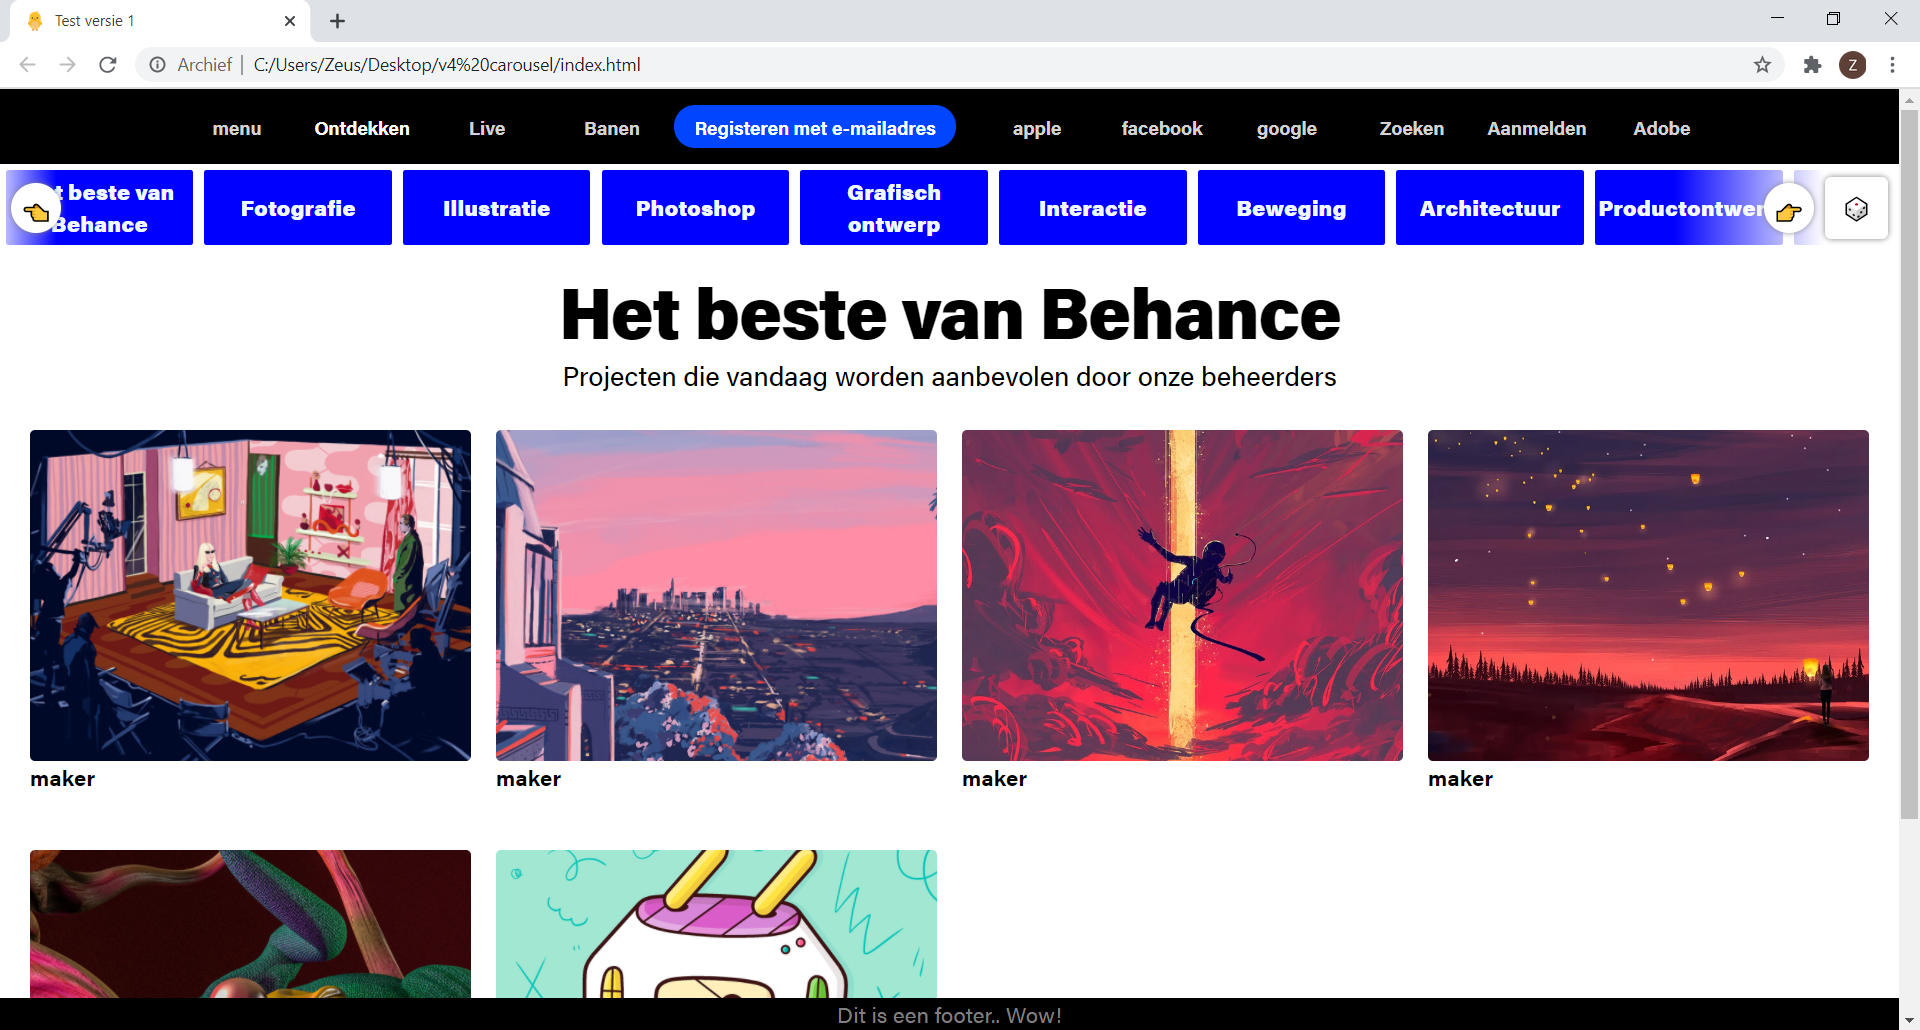
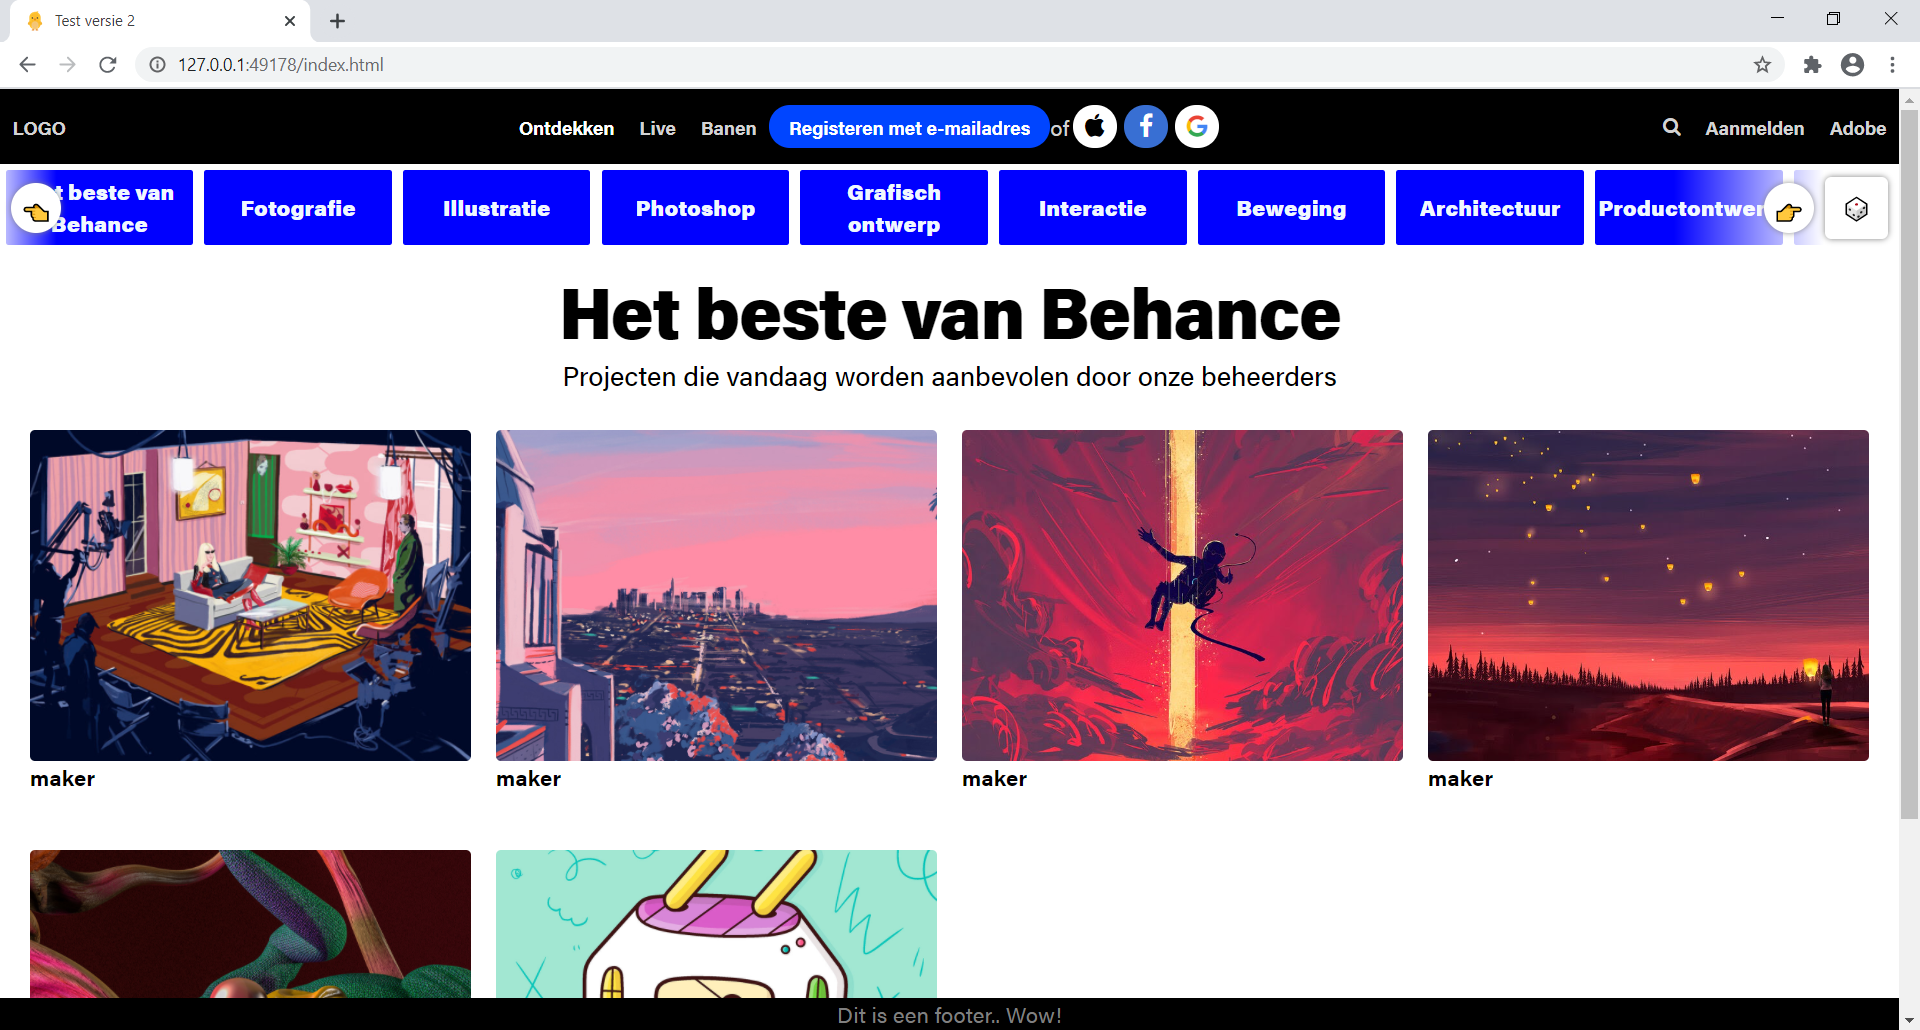
Add files via upload

diff --git a/styles/style.css b/styles/style.css
@@ -26,10 +26,8 @@ header {
     width: 100%;
     height: 60px;
     display: flex;
-    align-items: center;
-    justify-content: center;
-    overflow: scroll;
-    margin: auto;
+    justify-content: space-between;
+    color: lightgrey;
 }
 
 #navbar::-webkit-scrollbar {
@@ -38,24 +36,36 @@ header {
     scrollbar-width: none;
 }
 
-
-
-
-
-#navbar a {
-    text-decoration: none;
-    font-weight: 700;
-    font-size: 15px;
-    color: lightgrey;
-    padding: 10px;
-    min-width: 100px;
-    width: 100px;
+#navbar div {
     display: flex;
-    justify-content: center;
+    align-items: center;
 
 }
 
-#navbar a:nth-of-type(5) {
+#navbar div:first-of-type {
+    justify-self: flex-start;
+}
+
+#navbar div:nth-of-type(2) {
+    justify-self: center;
+}
+
+#navbar div:last-of-type {
+    justify-self: flex-end;
+}
+
+#navbar div a {
+    text-decoration: none;
+    font-weight: 700;
+    font-size: 15px;
+    padding: 10px;
+    display: flex;
+    justify-content: center;
+    align-items: center;
+    color: lightgrey;
+}
+
+#navbar div a:nth-of-type(4) {
     color: white;
     width: auto;
     min-width: 225px;
@@ -65,12 +75,43 @@ header {
     padding: 10px 15px;
 }
 
-#navbar a:first-of-type {}
+#navbar div a:nth-of-type(5),
+a:nth-of-type(6),
+:nth-of-type(7) {
+    width: 35px;
+    height: 35px;
+    margin: 0 .2em;
+    border-radius: 40px;
+    color: red;
+}
 
-#navbar a.active {
+
+
+#navbar div a:nth-of-type(5) {
+    background-color: white;
+    color: black;
+}
+
+#navbar div a:nth-of-type(6) {
+    background-color: #386fd3;
     color: white;
 }
 
+#navbar div a:nth-of-type(7) {
+    background-color: white;
+}
+
+.fa-google {
+    background: conic-gradient(from -45deg, #ea4335 110deg, #4285f4 90deg 180deg, #34a853 180deg 270deg, #fbbc05 270deg) 73% 55%/150% 150% no-repeat;
+    -webkit-background-clip: text;
+    background-clip: text;
+    color: transparent;
+    -webkit-text-fill-color: transparent;
+}
+
+#navbar div a.active {
+    color: white;
+}
 
 #navcarousel {
     height: 70px;

diff --git a/index.html b/index.html
@@ -9,24 +9,36 @@
     <title>Test versie 2</title>
     <link href="styles/style.css" rel="stylesheet">
     <link rel="stylesheet" href="https://use.typekit.net/xta7btl.css">
+    <link rel="stylesheet" href="https://cdnjs.cloudflare.com/ajax/libs/font-awesome/4.7.0/css/font-awesome.min.css">
 </head>
 
 <body>
     <header>
 
         <nav id="navbar">
-            <a href="">menu</a>
-            <a href="index.html" class="active">Ontdekken</a>
-            <a href="">Live</a>
-            <a href="">Banen</a>
-            <a href="">Registeren met e-mailadres</a>
-            <span>of</span>
-            <a href="">apple</a>
-            <a href="">facebook</a>
-            <a href="">google</a>
-            <a href="">Zoeken</a>
-            <a href="">Aanmelden</a>
-            <a href="">Adobe</a>
+            <div>
+                <a href="">LOGO</a>
+                
+                
+            </div>
+            <div>
+                <a href="index.html" class="active">Ontdekken</a>
+                <a href="">Live</a>
+                <a href="">Banen</a>
+                <a href="">Registeren met e-mailadres</a>
+                <span>of</span>
+                <a href=""><i class="fa fa-apple" style="font-size:20px"></i></a>
+                <a href=""><i class="fa fa-facebook" style="font-size:20px"></i></a>
+                <a href=""><i class="fa fa-google" style="font-size:20px"></i></a>
+            </div>
+
+            <div>
+                <a href="">
+                    <i class="fa fa-search"></i>
+                </a>
+                <a href="">Aanmelden</a>
+                <a href="">Adobe</a>
+            </div>
         </nav>
 
         <div id="navcarousel">
@@ -118,7 +130,7 @@
     </main>
 
     <footer>
-    
+
     </footer>
 
     <script src="_js/script.js"></script>

diff --git a/readme.md b/readme.md
@@ -9,6 +9,7 @@ Markdown cheat cheet: [Hulp bij het schrijven van Markdown](https://github.com/a
 1. https://css-tricks.com/aspect-ratio-boxes/
 2. https://css-tricks.com/almanac/selectors/a/after-and-before/
 3. https://www.w3schools.com/css/css3_object-fit.asp
+4. https://stackoverflow.com/questions/52578726/fontawesome-5-multi-color-icon
 
 
 
@@ -39,6 +40,7 @@ Markdown cheat cheet: [Hulp bij het schrijven van Markdown](https://github.com/a
 2. active link in de carossel in het midden centreren
 3. menu laten collapsen (hamburgermenu) op kleinere schermen
 4. over het algemeen zijn de menu balken het moeilijkste gedeelte 
+5. https://fontawesome.com/icons/google?style=brands
 
 **Screenshots:**
 
